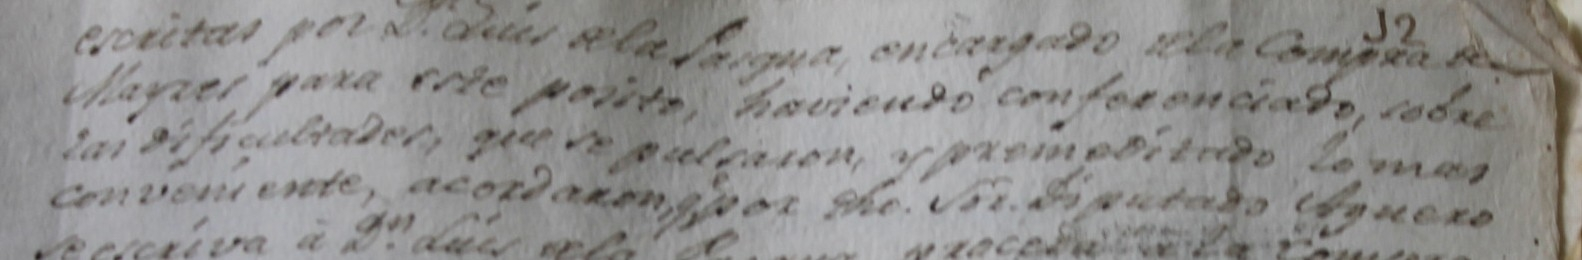
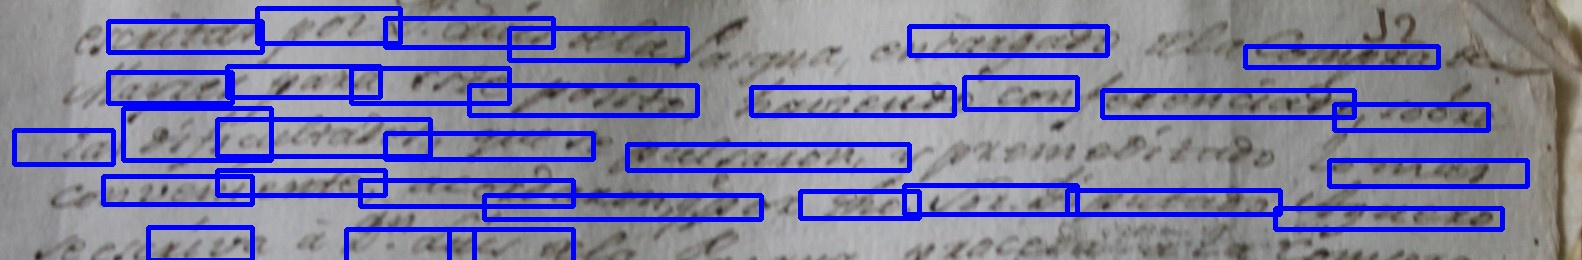
Se corrigieron rutas relativas en archivos python

Changed region(s): [[0.0, 0.0, 0.9912, 1.0], [0.5575, 0.0615, 0.7124, 0.2462], [0.7743, 0.1538, 0.9292, 0.2769]]

diff --git a/php/app/cargarImagen.php b/php/app/cargarImagen.php
@@ -9,11 +9,11 @@
    
  	$connection=mysqli_connect($hostname,$userBD,$passwordBD,$database);
     $imagen= $_POST['imagen'];
-    $nombre = $_POST['nombre'];
+    $nombre = $_GET['nombre'];
     // RUTA DONDE SE GUARDARAN LAS IMAGENES
     $path = "ImagenesTranscripcion/".$nombre.".jpg";
     $actualpath = "http://localhost/Transcript/php/app/".$path;
-    $ruta = "./../php/app/".$path;
+#    $ruta = "./../php/app/".$path;
     file_put_contents($path, base64_decode($imagen));
     $bytesArchivo=file_get_contents($path);
     $time=time();
@@ -30,15 +30,16 @@
       $relacion = mysqli_query($conexion, "INSERT INTO usuario_transcripcion (fkIdUsuario, fkIdTranscripcion) VALUES ('".$_POST['id']."','".$idTranscripcion[0]."')");
       //Ejecución del modulo de transcripción
         //Ejecución de la detección de palabras
-      shell_exec("python3 ../python/text_detection.py --image ".$actualpath." --east frozen_east_text_detection.pb");
+      shell_exec("python3 ./../../python/text_detection.py --image ".$path." --id ".$idTranscripcion[0]." --east ./../../python/frozen_east_text_detection.pb");
         //Ejecución de la detección de letras por palabra
-      shell_exec("python3 ../python/ROIs_Text.py --id ".$idTranscripcion[0]."");
+      shell_exec("python3 ./../../python/ROIs_Text.py --id ".$idTranscripcion[0]."");
         //Ejecución de la transcripción
-      shell_exec("python3 ../python/transcripcion.py --id ".$idTranscripcion[0]."");
+      shell_exec("python3 ./../../python/transcripcion.py --id ".$idTranscripcion[0]."");
+      $idTranscripcion[0];
         //Mensaje a la aplicaición que indica que la transcripción ya fue realizada
       $json['message']='La imagen fue enviada al servidor';
     	echo json_encode($json,JSON_UNESCAPED_UNICODE);
-    }else{
-    	 $json['message']='No se pudo enviar la imagen al servidor. Intente de nuevo por favor';
-    	 echo json_encode($json,JSON_UNESCAPED_UNICODE);
-    }
+#    }else{
+#    	 $json['message']='No se pudo enviar la imagen al servidor. Intente de nuevo por favor';
+#    	 echo json_encode($json,JSON_UNESCAPED_UNICODE);
+#    }

diff --git a/python/text_detection.py b/python/text_detection.py
@@ -121,7 +121,8 @@ for y in range(0, numRows):
 boxes = non_max_suppression(np.array(rects), probs=confidences)
 
 # loop over the bounding boxes
-dir = './transcription/'+args["id"]
+dir = './../../python/transcription/'+args["id"]
+print (dir)
 if not os.path.exists(dir):
 	os.mkdir(dir)
 i=0
@@ -136,13 +137,14 @@ for (startX, startY, endX, endY) in boxes:
 	# draw the bounding box on the image
 	crop_img = orig[startY:endY, startX:endX]
 	if (endX+10) < W and (startX-10) >= 0 and (startY-15) >= 0 and (endY+15) < H:
-		cv2.imwrite('./transcription/'+args["id"]+'/'+repr(i)+'.png', orig[startY-15:endY+15, startX-10:endX+10])
+		cv2.imwrite('./../../python/transcription/'+args["id"]+'/'+repr(i)+'.png', orig[startY-15:endY+15, startX-10:endX+10])
 	else:
-		cv2.imwrite('./transcription/'+args["id"]+'/'+repr(i)+'.png', crop_img)
+		cv2.imwrite('./../../python/transcription/'+args["id"]+'/'+repr(i)+'.png', crop_img)
 	i+=1
 	cv2.rectangle(orig, (startX, startY), (endX, endY), (255, 0, 0), 3)
 
 # show the output image
 #cv2.imshow("Text Detection", orig)
+cv2.imwrite(args["image"], orig)
 cv2.imwrite('./transcription/'+args["id"]+".jpg", orig)
 #cv2.waitKey(0)

diff --git a/python/transcripcion.py b/python/transcripcion.py
@@ -15,8 +15,8 @@ ap.add_argument("-i", "--id", type=str,
 args = vars(ap.parse_args())
 
 longitud, altura = 150, 150
-modelo = './model/model2v(1)y2.h5'
-pesos = './model/weights2v(1)y2.h5'
+modelo = './../../python/model/model2v(1)y2.h5'
+pesos = './../../python/model/weights2v(1)y2.h5'
 
 cnn = load_model(modelo)
 cnn.load_weights(pesos)
@@ -31,7 +31,7 @@ def predict(file):
     return respuesta
 
 def transcripcion():
-    dir = './transcription/Letras/'+args["id"]
+    dir = './../../python/transcription/Letras/'+args["id"]
     list = listdir(dir)
     lista = []
     for i in list:
@@ -102,10 +102,10 @@ def transcripcion():
                     texto += "y"
                 elif aux == 26:
                     texto += "z"
-        #rmtree(dir + repr(i) + "/")
+        rmtree(dir + "/" +repr(i) + "/")
         transcripcion += " " + texto
     rmtree(dir)
-    dir = './transcription/'+args["id"]
+    dir = './../../python/transcription/'+args["id"]
     rmtree(dir)
     return transcripcion
 

diff --git a/python/ROIs_Text.py b/python/ROIs_Text.py
@@ -10,15 +10,15 @@ ap.add_argument("-i", "--id", type=str,
 	help="path to input dir of image")
 args = vars(ap.parse_args())
 
-list = listdir('./transcription/'+args["id"])
+list = listdir('./../../python/transcription/'+args["id"])
 list.sort()
-os.mkdir('./transcription/Letras/'+args["id"])
+os.mkdir('./../../python/transcription/Letras/'+args["id"])
 for i in list:
 	auxDir = i.split('.')[0]
-	dir = './transcription/Letras/'+args["id"]+'/'+auxDir+"/";
+	dir = './../../python/transcription/Letras/'+args["id"]+'/'+auxDir+"/";
 	if not os.path.exists(dir):
 		os.mkdir(dir)
-	file = './transcription/'+args["id"]+"/"+i
+	file = './../../python/transcription/'+args["id"]+"/"+i
 	if os.stat(file).st_size != 0:
 		image = cv2.imread(file)
 		gray = cv2.cvtColor(image, cv2.COLOR_BGR2GRAY)
